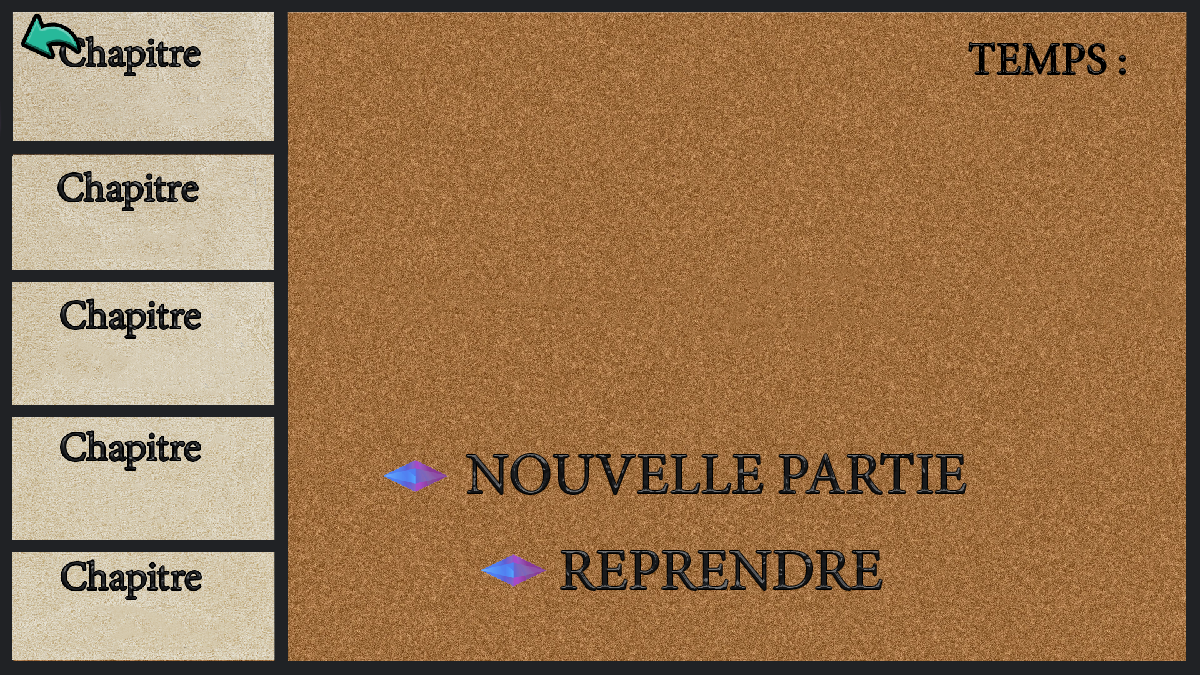
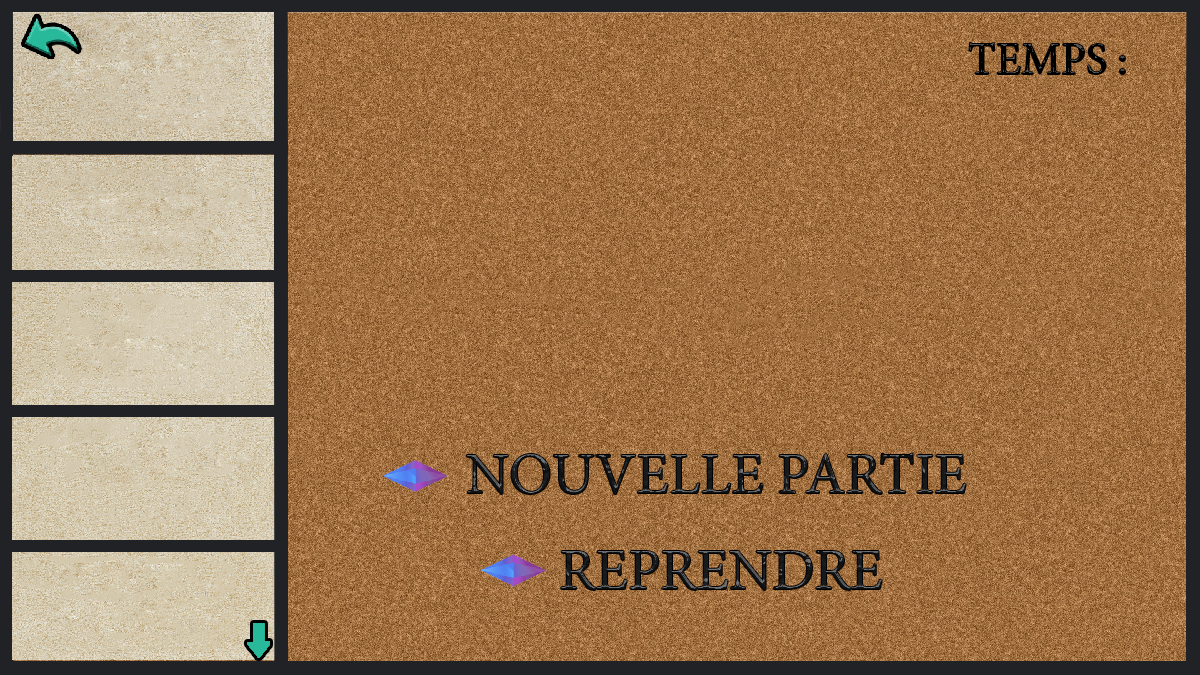
modif grille unclickable

diff --git a/Src/Grille_jeu.rb b/Src/Grille_jeu.rb
@@ -12,15 +12,15 @@ class Grille_jeu
 
     attr_reader :grille
 
-    def Grille_jeu.creer(joues)
-        new(joues)
+    def Grille_jeu.creer(estJouable, joues)
+        new(estJouable, joues)
     end
 
     private_class_method :new
 
     ##
     # Création de la grille
-    def initialize(joues)
+    def initialize(estJouable, joues)
         @grille = Gtk::Grid.new()
         @bouttons = Array.new(25)
         0.upto(25) do |i|
@@ -31,6 +31,19 @@ class Grille_jeu
         @css = Css.new()
 
         charger("grille1.txt")
+
+        unless (estJouable)
+            rendreNonJouable()
+        end
+    end
+
+    def rendreNonJouable()
+        0.upto(@nbLignes-1) do |i|
+            0.upto(@nbColonnes-1) do |j|
+                #Rend le bouton non cliquable
+                @bouttons[i][j].boutton.sensitive = false
+            end
+        end
     end
 
     ##

diff --git a/Src/Ecran_libre.rb b/Src/Ecran_libre.rb
@@ -30,6 +30,29 @@ class Ecran_libre
 
         @win.add(@container)
 
+        @grille = Grille_jeu.creer(false, Array.new)
+        @boite.put(@grille.grille, (1200 *0.4), 675 * 0.12)
+
+        file = File.open("chapitres.txt")
+        lignes = file.readlines
+        nbLignes = lignes.size
+        file_data = lignes.map(&:chomp)
+
+        file.close
+
+        i_deb = 0
+        i_fin = 8
+
+        text = "Chapitre 1"
+        @boite.put(Gtk::Label.new(text), (1200 *0.16), 675 * 0.2)
+
+        i = i_deb
+        while (i <= i_fin)
+            puts(file_data[i])
+
+            i+=2
+        end
+
         @win.show_all
         Gtk.main
     end

diff --git a/Src/Ecran_jeu.rb b/Src/Ecran_jeu.rb
@@ -28,7 +28,7 @@ class Ecran_jeu
 
         joues = Array.new()
 
-        grille = Grille_jeu.creer(joues)
+        grille = Grille_jeu.creer(true, joues)
         textfield1 = Gtk::Label.new("")
         textfield2 = Gtk::Label.new("")
         textfield1.set_size_request(350, 200) 

diff --git a/Src/Tuto.rb b/Src/Tuto.rb
@@ -43,7 +43,7 @@ class Tuto
         }
         
         
-        @grilleTuto = Grille_jeu.creer(joues)
+        @grilleTuto = Grille_jeu.creer(true, joues)
         @box.put(@grilleTuto.grille, (1200 *0.31), 675 * 0.16)
 
         @window.add(@box2)
